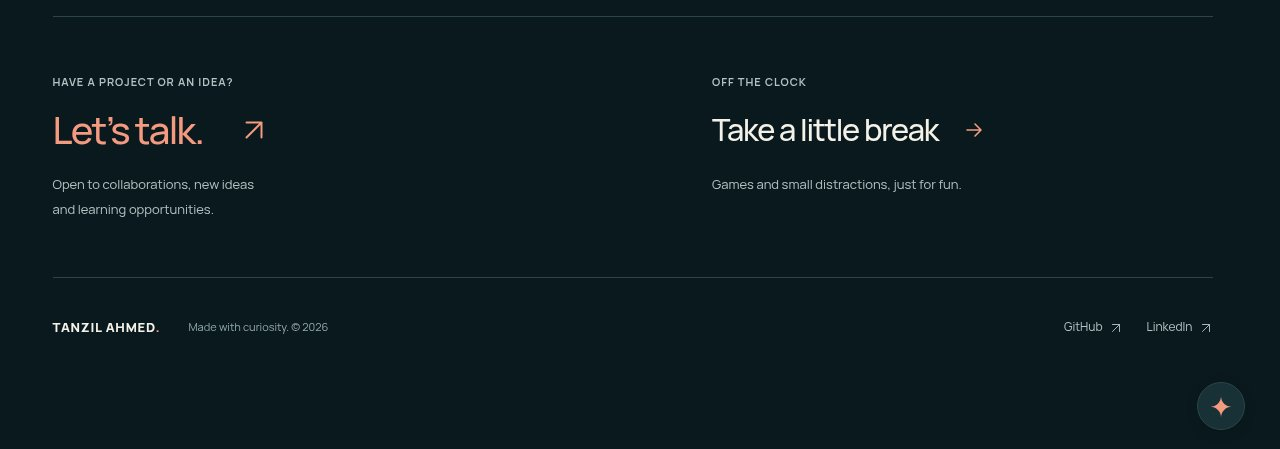
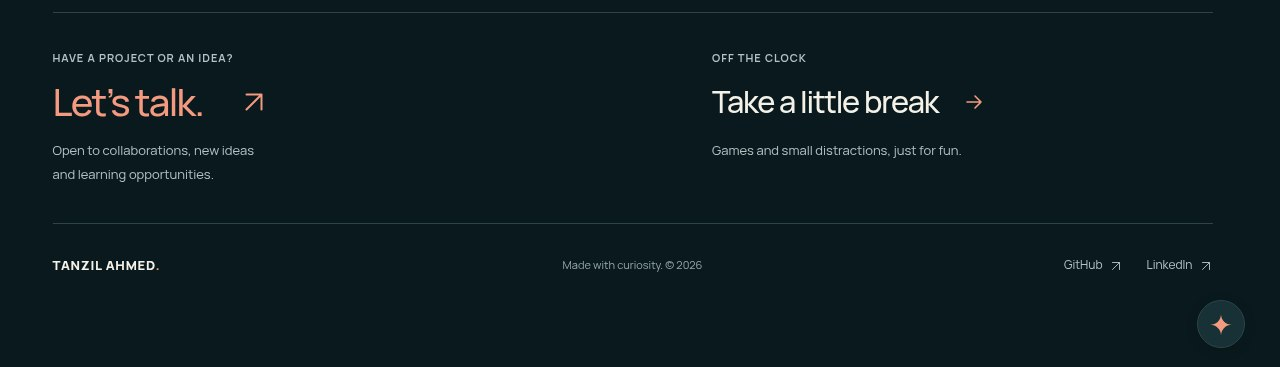
Highlight YCPC and Completionist recognition and compact the desktop footer

diff --git a/src/styles/global.css b/src/styles/global.css
@@ -186,14 +186,21 @@ h2 { font-size: clamp(30px, 3vw, 40px); font-weight: 600; line-height: 1.2; lett
 .merge-status { display: inline-flex; justify-content: center; align-items: center; gap: 5px; font-size: 11px; line-height: 1.4; color: var(--positive); background: var(--positive-bg); padding: 5px 9px; border-radius: 5px; }
 .merge-status.status-open { color: var(--accent); background: var(--surface-raised); }
 .merge-status.status-closed { color: var(--muted); background: var(--surface-raised); }
-.recognition-grid { display: grid; grid-template-columns: repeat(3, minmax(0, 1fr)); gap: 20px; }
+.recognition-grid { display: grid; grid-template-columns: repeat(2, minmax(0, 1fr)); gap: 20px; }
 .recognition-grid article { border: 1px solid var(--line); border-radius: var(--radius); padding: 26px; }
 .recognition-year { color: var(--quiet); }
 .recognition-grid .recognition-year { display: block; font-size: 14px; margin-bottom: 28px; }
 .recognition-grid .eyebrow { font-size: 10px; }
 .recognition-grid h3 { font-size: 21px; line-height: 1.4; letter-spacing: -.035em; margin: 9px 0 14px; font-weight: 600; }
 .recognition-grid p:not(.eyebrow) { font-size: 14px; color: var(--muted); line-height: 1.8; }
-.recognition-grid .text-link { margin-top: 16px; }
+.recognition-content { display: flex; align-items: flex-start; gap: 24px; min-width: 0; }
+.recognition-copy { flex: 1; min-width: 0; }
+.recognition-links { display: flex; flex-wrap: wrap; align-items: center; gap: 4px 20px; margin-top: 14px; }
+.recognition-grid .recognition-links .text-link, .recognition-list .recognition-links .text-link { margin-top: 0; }
+.recognition-badge { flex: 0 0 128px; margin: 0; }
+.recognition-badge img { display: block; width: 128px; height: auto; border-radius: 9px; }
+.recognition-list .recognition-content { justify-content: space-between; }
+.recognition-list .recognition-copy { max-width: 800px; }
 .beyond-teaser { display: grid; grid-template-columns: 1fr 1.2fr; gap: 64px; border-top: 1px solid var(--line); }
 .beyond-title > .eyebrow { margin-bottom: 14px; }
 .beyond-title h2 { margin-bottom: 20px; }
@@ -290,12 +297,7 @@ h2 { font-size: clamp(30px, 3vw, 40px); font-weight: 600; line-height: 1.2; lett
 .contribution-state .pr-link:hover { text-decoration: underline; }
 .contribution-state time { font-size: 11px; color: var(--quiet); }
 .milestone-section { padding-bottom: 0; }
-.milestone-grid { display: grid; grid-template-columns: repeat(2, minmax(0, 1fr)); gap: 24px; }
-.milestone-card { border: 1px solid var(--line); padding: 28px; border-radius: var(--radius); }
-.milestone-year { font-size: 32px; letter-spacing: -.05em; color: var(--quiet); display: block; margin-bottom: 24px; line-height: 1.2; }
-.milestone-card h3 { font-size: 22px; line-height: 1.4; letter-spacing: -.035em; margin: 10px 0 14px; font-weight: 600; }
-.milestone-card > p:not(.eyebrow) { font-size: 14px; color: var(--muted); line-height: 1.8; }
-.milestone-card .text-link { margin-top: 18px; }
+
 /* About and activities */
 .about-intro { display: grid; grid-template-columns: .85fr 1.15fr; gap: 72px; align-items: start; padding: 0 0 48px; }
 .about-photo img { width: 100%; aspect-ratio: 1; object-fit: cover; object-position: 65% center; border-radius: var(--radius); }
@@ -442,6 +444,16 @@ h2 { font-size: clamp(30px, 3vw, 40px); font-weight: 600; line-height: 1.2; lett
 .social-links a { display: inline-flex; gap: 6px; align-items: center; min-height: 44px; font-size: 12px; color: var(--muted); }
 .social-links a:hover { color: var(--text); }
 .footer-signoff { color: var(--quiet); font-size: 11px; }
+@media (min-width: 800px) {
+  .footer-main { padding-block: 36px; }
+  .footer-contact-block > .eyebrow, .footer-break > .eyebrow { margin-bottom: 12px; }
+  .footer-contact-block > p:last-child, .footer-break > p:last-child { margin-top: 12px; }
+  .footer-bottom { display: grid; grid-template-columns: minmax(0, 1fr) auto minmax(0, 1fr); gap: 24px; padding-block: 20px 80px; }
+  .footer-identity { display: contents; }
+  .footer-wordmark { grid-column: 1; justify-self: start; }
+  .footer-signoff { grid-column: 2; justify-self: center; text-align: center; }
+  .footer-bottom > .social-links { grid-column: 3; justify-self: end; }
+}
 /* Decorations use the viewport without becoming an input surface or moving content. */
 .pocket-surprise { position: fixed; z-index: 30; right: max(20px, env(safe-area-inset-right)); bottom: max(20px, env(safe-area-inset-bottom)); }
 .pocket-button { display: grid; place-items: center; width: 48px; height: 48px; padding: 0; border: 1px solid var(--line); border-radius: 50%; background: var(--surface-raised); color: var(--accent); box-shadow: 0 3px 14px #00000018; font-size: 28px; line-height: 1; }
@@ -621,6 +633,9 @@ h2 { font-size: clamp(30px, 3vw, 40px); font-weight: 600; line-height: 1.2; lett
   .preview-end .merge-status { font-size: 10px; padding: 4px 6px; }
   .recognition-grid article { grid-template-columns: 1fr; gap: 18px; }
   .recognition-grid .recognition-year { margin: 0; }
+  .recognition-content { flex-direction: column; gap: 20px; }
+  .recognition-badge { flex-basis: auto; order: -1; }
+  .recognition-badge img { width: 144px; }
   .recognition-list article { grid-template-columns: 45px minmax(0, 1fr); gap: 18px; }
   .recognition-list h3 { font-size: 19px; }
   .recognition-list p:not(.eyebrow) { font-size: 14px; }
@@ -650,8 +665,6 @@ h2 { font-size: clamp(30px, 3vw, 40px); font-weight: 600; line-height: 1.2; lett
   .contribution-state .pr-link + time { margin-left: 0; }
   .entry-meta { font-size: 10px; gap: 4px 10px; }
   .entry-meta > span + span { padding-left: 10px; }
-  .milestone-grid { grid-template-columns: 1fr; gap: 16px; }
-  .milestone-card { padding: 24px; }
   .writing-featured { padding: 24px; }
   .writing-featured::before { left: 24px; }
   .writing-card-copy :is(h2, h3) { font-size: 24px; }

diff --git a/tests/browser/recognition.spec.ts b/tests/browser/recognition.spec.ts
@@ -1,0 +1,57 @@
+import { test, expect } from '@playwright/test';
+
+test('recognition shares the real badge, contest proof and leadership session across pages', async ({ page, request }) => {
+  let badgeSource: string | null = null;
+  for (const route of ['/', '/about/', '/open-source/']) {
+    await page.goto(route);
+    const badge = page.locator('[data-recognition="hacktoberfest-2026"]');
+    await expect(badge.getByRole('heading')).toHaveText('Hacktoberfest 2026 — Completionist');
+    await expect(badge).toContainText('all three Hacktoberfest 2026 milestones');
+    const image = badge.getByRole('img');
+    await expect(image).toHaveAttribute('alt', /Completionist badge, earned by Tanzil Ahmed/);
+    const source = await image.getAttribute('src');
+    if (badgeSource) expect(source).toBe(badgeSource); else badgeSource = source;
+    await expect(badge.getByRole('link', { name: 'DEV profile' })).toHaveAttribute('href', 'https://dev.to/tanzil_ahmed_e6a826eee8c4');
+    const proof = (await badge.getByRole('link', { name: 'View badge' }).getAttribute('href'))!;
+    const response = await request.get(proof);
+    expect(response.status()).toBe(200); expect(response.headers()['content-type']).toContain('image/webp');
+    if (route !== '/open-source/') {
+      const ycpc = page.locator('[data-recognition="ycpc-2025"]');
+      await expect(ycpc.getByRole('heading')).toHaveText('YCPC Grand Finale 2k25 — 3rd place');
+      await expect(ycpc).toContainText('2025');
+      await expect(ycpc).toContainText('HackerRank');
+      const leaderboard = (await ycpc.getByRole('link', { name: 'View leaderboard' }).getAttribute('href'))!;
+      expect((await request.get(leaderboard)).status()).toBe(200);
+    }
+    if (route === '/') {
+      await expect(page.locator('.recognition-grid > article')).toHaveCount(4);
+      await expect(page.locator('.beyond-stories')).toContainText('Former President of Faizur Rahman Ideal Institute Debating Club (2022–23 session)');
+    }
+  }
+  await page.goto('/beyond/');
+  await expect(page.locator('#debate .activity-prose')).toContainText('served as its President for the 2022–23 session');
+});
+
+test('desktop footer centers copyright independently while mobile keeps the identity stack', async ({ page }) => {
+  for (const theme of ['dark', 'light']) for (const width of [320, 390, 800, 1024, 1440]) {
+    await page.setViewportSize({ width, height: 900 });
+    await page.goto('/contact/');
+    await page.evaluate((theme) => { document.documentElement.dataset.theme = theme; }, theme);
+    const footer = page.locator('.site-footer'); await footer.scrollIntoViewIfNeeded();
+    const bounds = (await page.locator('.footer-bottom').boundingBox())!;
+    const logo = (await page.locator('.footer-wordmark').boundingBox())!;
+    const signoff = (await page.locator('.footer-signoff').boundingBox())!;
+    const social = (await page.locator('.footer-bottom > .social-links').boundingBox())!;
+    if (width >= 800) {
+      expect(Math.abs(signoff.x + signoff.width / 2 - (bounds.x + bounds.width / 2))).toBeLessThan(1);
+      expect(logo.x + logo.width).toBeLessThan(signoff.x);
+      expect(signoff.x + signoff.width).toBeLessThan(social.x);
+    } else {
+      expect(Math.abs(logo.x - signoff.x)).toBeLessThan(1);
+      expect(signoff.y).toBeGreaterThan(logo.y + logo.height);
+    }
+    expect(await page.evaluate(() => document.documentElement.scrollWidth <= innerWidth)).toBe(true);
+  }
+  await page.setViewportSize({ width: 1440, height: 900 }); await page.goto('/');
+  expect((await page.locator('.site-footer').boundingBox())!.height).toBeLessThan(400);
+});

diff --git a/src/content.config.ts b/src/content.config.ts
@@ -69,6 +69,13 @@ const experience = defineCollection({
 });
 const milestones = defineCollection({
   loader: glob({ pattern: '**/*.md', base: './src/content/milestones' }),
-  schema: z.object({ ...common, title: z.string(), year: z.string().optional(), summary: z.string(), kind: z.string(), url: z.url().optional(), featured: z.boolean().default(false) }),
+  schema: ({ image }) => z.object({
+    ...common, title: z.string(), year: z.string().optional(), summary: z.string(), kind: z.string(),
+    url: z.url().optional(), urlLabel: z.string().trim().min(1).default('View details'),
+    featured: z.boolean().default(false),
+    image: image().optional(), imageAlt: z.string().trim().min(1).optional(),
+    imageLabel: z.string().trim().min(1).default('View image'),
+    imagePresentation: z.enum(['evidence', 'badge']).default('evidence'),
+  }).refine((data) => !data.image || !!data.imageAlt, { message: 'Recognition images need an informative imageAlt.', path: ['imageAlt'] }),
 });
 export const collections = { projects, contributions, notes, activities, experience, milestones };

diff --git a/docs/VERIFICATION.md b/docs/VERIFICATION.md
@@ -1,20 +1,23 @@
 # Local verification — Offscript
 
-Verified October 24, 2026 (UTC), on the production preview. This record covers the Tic-tac-toe/Stack Tower, screen-wide surprise and open-footer revision. Publication status is separate from local checks.
+Verified October 24, 2026 (UTC), on the production preview. This record covers YCPC/Completionist recognition evidence, the former club presidency session and the compact desktop footer revision. Publication status is separate from local checks.
 
 - Existing locked dependencies were reused; no package or lockfile changes. The earlier frozen reinstall passed; it was not repeated for this revision.
-- `npm run check`: 56 files; zero errors, warnings or hints.
+- `npm run check`: 57 files; zero errors, warnings or hints.
 - `npm run build`: 21 static HTML pages plus RSS, sitemap and local assets.
 - `npm test`: all 11 checks passed. Includes generated links/fragments/assets, metadata/sitemap/private-data/destination checks, editable Play schema, all Tic-tac-toe win/draw rules, exhaustive human continuations against Hard as X and O, nonmutating AI decisions, tower left/right overlap and tiny-slice loss, perfect snaps/recovery, 30/60/120Hz motion equivalence, paused/Step immobility and 1,000-level history/width bounds.
-- `npm run test:authoring`: project/image/contribution fixtures, original/external writing and dates, metadata/feed/sitemap, shared activity/photo updates and captions, Home previews and draft exclusion passed. Fixtures were removed and the original site rebuilt before browser checks.
-- `npm run test:browser`: all 77 tests passed in the final full run. Both-theme WCAG A/AA automated checks cover representative pages, the Play landing and all five active game surfaces. All 21 routes fit 320/360/390/768/800/1024/1440px without horizontal overflow; existing project-cover title checks remain. Existing navigation, theme/storage fallback, no-JavaScript reading/navigation, project/contribution/writing journeys, gallery/keyboard/modal/focus, equal photo frames, lightweight scrolling and reading-progress checks passed.
+- `npm run test:authoring`: project/image/contribution fixtures, original/external writing and dates, metadata/feed/sitemap, shared activity/photo updates and captions, recognition summaries/badge images/link labels updated from one file across Home/About/Open source, Home previews and draft exclusion passed. Fixtures were removed and the original site rebuilt before browser checks.
+- `npm run test:browser`: all 79 tests passed in the final full run. Both-theme WCAG A/AA automated checks cover representative pages, the Play landing and all five active game surfaces. All 21 routes fit 320/360/390/768/800/1024/1440px without horizontal overflow; existing project-cover title checks remain. Existing navigation, theme/storage fallback, no-JavaScript reading/navigation, project/contribution/writing journeys, gallery/keyboard/modal/focus, equal photo frames, lightweight scrolling and reading-progress checks passed.
+- Recognition/footer checks: YCPC Grand Finale 2k25 third place and the owner-supplied leaderboard proof appear on Home/About. The real 2026 Completionist badge, all-three-milestone description, full-image proof and clean DEV profile URL share one source across Home/About/Open source. Native proof URLs return optimized WebP images. Home contains four highlights. Former President of Faizur Rahman Ideal Institute Debating Club and the 2022–23 session appear through the shared Home/Activities content. Desktop copyright is centered independently of the logo/social widths at 800/1024/1440px in both themes; 320/390px checks retain the mobile identity stack and prevent overflow. Desktop Home footer height is below 400px.
+- Source evidence: used the two supplied screenshots and the owner's stated recognition/role. DEV's supplied profile URL is stored without email/analytics parameters; its external availability is not part of local checks. Raw supplied files remain byte-identical in src/assets/recognition; the built site references generated WebP proofs and 128/192/256px badge sizes. No badge artwork or ranking data was synthesized.
 - Tic-tac-toe browser checks: keyboard/touch/local wins and draws, one-time result counting, fixed board dimensions, winning line/replay, stored/reset scores, Easy/Hard separation, personal scores across X/O changes, computer turn gating, canceled pending turns/settings/new-round races and reduced-motion marks. Device storage is tested blocked and malformed. Hard's no-loss result is covered separately by exhaustive rule tests.
 - Stack Tower browser checks: actual moving canvas, pause/offscreen/explicit resume, live reduced-motion change, default Step mode, keyboard perfect landings, trimming, loss/replay, mode-specific best persistence, blocked/corrupt storage and actual mobile tap/swipe input. Scrolling never drops a block; untimed Step controls remain usable after scrolling. Timed play pauses out of view. Ready/paused/Step states have no game animation loop; falling pieces and history are bounded by implementation and rule tests.
 - Corner checks: viewport-sized decorative stage, at most 28 particles (20 on mobile), multi-second native animation timing, stable URL/content/control position and focus, no visible popup/tooltip, pointer transparency and a real footer-link click during an effect, rapid replacement, Escape/automatic cleanup, static reduced-motion reactions, failed lazy chunk and menu/gallery/game-focus suppression. No sound or idle render loop is added.
 - Existing Playground, Drawing and Do not press checks still cover lazy loading, shape limits/Shuffle/reset/manual movement/offscreen pause, touch drag/draw, mirror/eraser/Undo/Redo/clear/recovery/resize, tab-session artwork recovery and failures, actual opaque PNG bytes/paper pixels, keyboard pen/prompts/stamps, rapid reactions/reset and opt-in sound. No game engine is requested on Home or the unselected Play landing.
 - The intro's timing-sensitive test now checks that both headline lines become fully visible when the bounded fallback deadline finishes an animation; it no longer depends on incidental per-line animation markers. Public intro behavior and source are unchanged. Existing layout, reduced-motion and failed-script checks remain.
-- Inspected final desktop/mobile previews in both themes: Play choices, Tic-tac-toe winning state, five-block Step tower, footer and viewport-wide surprises. Refreshed README Home/Play/drawing/footer captures and added game previews. All 30 relative documentation links resolve. Owner profile, portrait, article/project/activity content, photo captions and public media were compared with HEAD and remain unchanged. `git diff --check` passed.
-- No dependencies or public media changed. Lighthouse and earlier CPU/FPS probes were not rerun; historical results below are not measurements of these games.
+- Inspected final desktop/mobile recognition, About awards/badge, Open source milestones, leadership and footer previews in both themes. Refreshed footer captures and added README recognition previews. All 31 relative documentation links resolve. The portrait, original essay, project/contribution records, activity photo arrays/captions and public media remain unchanged; only the authorized recognition and debate-role content was revised. `git diff --check` passed.
+- No packages, gameplay or public media changed. The two new source evidence assets are optimized during the build. Lighthouse and earlier CPU/FPS probes were not rerun; historical results below are not measurements of this revision.
+
 
 - Earlier production dependency audit (`npm audit --omit=dev --audit-level=moderate`): zero reported vulnerabilities. Dependencies were not changed or re-audited for the UI revision.
 - Earlier manual browser checks (retained from preceding revisions): Activities navigation/active state, email copy and canonical article-link copy, reduced-motion fallback, all six detail-cover titles and desktop/mobile screenshots in both themes. A clipped Tuktak title at 320px was corrected. README includes fresh dark/light Home previews and an activity-gallery preview. The seven owner-supplied activity photos are local WebP files, at most 1600px wide, totalling 1,010,372 bytes versus 28,891,991 bytes before optimization (96.5% smaller). The Home stage image is 103,932 bytes rather than 13,486,012. The unused 12,938,521-byte n2.jpg was removed. Captions were compared against the owner’s source and remain unchanged; alt descriptions were improved. Earlier demo assets are not referenced by the live gallery. Lazy images were decoded and allowed to paint before screenshot review. Relative documentation links resolve. RSS and sitemap were parsed as XML for the preceding content revision.
@@ -36,7 +39,7 @@ Accessible-name mismatches were corrected and the final Lighthouse report listed
 
 ## Publication
 
-The Tic-tac-toe/Stack Tower, screen-wide surprise and open-footer revision uses the checked master workflow; consult Actions for its deployment status. The preceding dedicated-game/footer/corner revision deployed successfully in run [40038361854](https://github.com/tanzilamd/tanzilamd.github.io/actions/runs/40038361854) for commit `7f15397`. The preceding Play revision deployed successfully in run [40034150096](https://github.com/tanzilamd/tanzilamd.github.io/actions/runs/40034150096) for commit `9fd6242`. The preceding equal-gallery/lightweight-scroll revision deployed successfully in run [40028927236](https://github.com/tanzilamd/tanzilamd.github.io/actions/runs/40028927236) for commit `f31d518`. The preceding motion/photo-story revision deployed successfully in run [40026600339](https://github.com/tanzilamd/tanzilamd.github.io/actions/runs/40026600339) for commit `8c70ec2`.
+The recognition/leadership/compact-footer revision uses the checked master workflow; consult Actions for its deployment status. The preceding Tic-tac-toe/Stack Tower revision deployed successfully in run [40070060201](https://github.com/tanzilamd/tanzilamd.github.io/actions/runs/40070060201) for commit `18ac32c`. The preceding dedicated-game/footer/corner revision deployed successfully in run [40038361854](https://github.com/tanzilamd/tanzilamd.github.io/actions/runs/40038361854) for commit `7f15397`. The preceding Play revision deployed successfully in run [40034150096](https://github.com/tanzilamd/tanzilamd.github.io/actions/runs/40034150096) for commit `9fd6242`. The preceding equal-gallery/lightweight-scroll revision deployed successfully in run [40028927236](https://github.com/tanzilamd/tanzilamd.github.io/actions/runs/40028927236) for commit `f31d518`. The preceding motion/photo-story revision deployed successfully in run [40026600339](https://github.com/tanzilamd/tanzilamd.github.io/actions/runs/40026600339) for commit `8c70ec2`.
 
 The owner’s activity-content update deployed successfully in run [40018102876](https://github.com/tanzilamd/tanzilamd.github.io/actions/runs/40018102876) for commit `6e82447`. The October 24 image optimization deployed successfully in run [40021022175](https://github.com/tanzilamd/tanzilamd.github.io/actions/runs/40021022175) for commit `85b4109`.
 

diff --git a/docs/CONTENT-GUIDE.md b/docs/CONTENT-GUIDE.md
@@ -85,9 +85,30 @@ Matching template copy করে matching folder-এ নতুন `.md` file ব
 - **Project:** `templates/project.md.example`। Category: `Product`, `Tool`, `Experiment`, `Earlier work`। `featured: true` ও ছোট `order` দিয়ে Home-এর প্রথম চারটি project বেছে নিন। নতুন project-এ `cover: "custom"` দিন, অথবা `/media/`-এর ছবি `coverImage` এবং বর্ণনা `coverAlt` দিন। নতুন file-এর নামই `/work/file-name/` URL হবে।
 - **Contribution:** সাধারণ PR-এর জন্য `templates/contribution.md.example`; published website-এর জন্য `templates/website-contribution.md.example`। একটি PR একবারই যোগ করুন। `Merged`, `Open`, `Closed`, `Published` সঠিকভাবে দিন। Personal fork merge-কে upstream contribution বলবেন না। `featured` দিয়ে Home-এর তিনটি highlight; `spotlight: true` দিয়ে Open source-এর বিস্তারিত highlight বাছাই হয়।
 - **Activity:** `templates/activity.md.example`। `summary` Home ও Activities-এ একই source থেকে আসে। নিচে বিস্তারিত লিখুন। Icon-এর `art`: `debate`, `theatre`, `community`। `featured: false` করলে শুধু Activities-এ থাকবে।
-- **Experience / recognition:** `templates/experience.md.example` বা `templates/milestone.md.example`। Award-এর সঠিক নাম, year এবং সহজ summary দিন। Nomination-কে win লিখবেন না। Unknown year বাদ রাখুন। Milestone-এর `featured: true` Home-এর প্রথম তিনটি recognition-এ বাছাই করে।
+- **Experience / recognition:** `templates/experience.md.example` বা `templates/milestone.md.example`। Award-এর সঠিক নাম, year এবং সহজ summary দিন। Nomination-কে win লিখবেন না। Unknown year বাদ রাখুন। Milestone-এর `featured: true` Home-এর প্রথম চারটি recognition-এ বাছাই করে।
 
 সব collection-এ `draft: true` দিলে public page, list, feed ও sitemap থেকে item বাদ যায়। তবে source repository public হলে committed draft-এর source অন্য কেউ দেখতে পারে। ব্যক্তিগত draft নিজের কাছে রাখুন। `order` ছোট হলে আগে আসে; Writing-এর ক্ষেত্রে date আগে বিবেচিত হয়।
+
+## Recognition badge ও proof image
+
+একটি recognition-এর title, year, summary, link ও ছবি একই `src/content/milestones/*.md` file-এ থাকবে। Home ও About একই source ব্যবহার করে; filename `hacktoberfest` দিয়ে শুরু হলে Open source-এও আসে। এখন Home-এ সর্বোচ্চ চারটি featured item দেখা যায়।
+
+ছবি আগে `src/assets/recognition/`-এ upload করুন। Milestone file-এ এই optional fields দিন:
+
+```json
+"image": "../../assets/recognition/hacktoberfest-completionist-2026.png",
+"imageAlt": "Hacktoberfest 2026 Completionist badge, earned by Tanzil Ahmed.",
+"imageLabel": "View badge",
+"imagePresentation": "badge",
+"url": "https://dev.to/tanzil_ahmed_e6a826eee8c4",
+"urlLabel": "DEV profile"
+```
+
+এগুলো বিদ্যমান JSON object-এর অন্য field-এর সঙ্গে comma দিয়ে যোগ করবেন। `imagePresentation: "badge"` হলে ছোট artwork ও full-image link দেখা যায়। `"evidence"` দিলে শুধু proof image-এর link থাকে—YCPC leaderboard-এর মতো screenshot-এর জন্য ভালো। Default `evidence`। ছবি থাকলে অর্থপূর্ণ `imageAlt` লাগবেই; `imageLabel` দিয়ে “View badge” বা “View leaderboard” লিখতে পারেন। Website link-এর লেখা `urlLabel` দিয়ে বদলানো যায়। Source path হলো milestone file থেকে relative; `/media/` path-এর সঙ্গে গুলিয়ে ফেলবেন না।
+
+Build নিজে responsive WebP badge images ও full proof তৈরি করে। ছবি পাল্টালে শুধু নতুন file upload করে ওই milestone-এর path/alt বদলালেই হবে; Home/About/Open source আলাদা edit লাগে না। Email বা analytics-এর tracking parameters ছাড়া clean public URL দিন। Nomination, badge ও contest position-এর ভাষা আলাদা রাখুন।
+
+Debate club-এর former President role ও 2022–23 session আছে `src/content/activities/debate.md`-এ। এর summary বদলালে Home এবং Activities দুটোই update হয়; নিচের Markdown-এ বিস্তারিত থাকে।
 
 ## Activity photos / আসল ছবি বসানো
 

diff --git a/docs/UI-GUIDE.md b/docs/UI-GUIDE.md
@@ -22,7 +22,7 @@ The content container has a 1160px maximum width. Section spacing uses `--space-
 | `Layout.astro` | Main/mobile/no-JS navigation, theme setup, shared metadata, footer and bounded Home intro bootstrap. Activities is part of all navigation variants. Contact omits the repeated footer contact invitation. |
 | `ProjectCard.astro` | Reusable cover, category, title and summary. Heading level 3 on Home; level 2 in the Work list. |
 | `Cover.astro` | Project identity artwork or an owner-supplied image. No fake product screenshot claims. |
-| `RecognitionList.astro` | Same award content as a Home grid or About list. |
+| `RecognitionList.astro` | Shared Home grid/About list/Open source milestones, optional authentic badge art, proof-image links and custom source labels. |
 | `WritingCard.astro` | Shared native/external publication, dates, reading time and destination labels. |
 | `Filters.astro` | Accessible button group; `site.ts` handles URL state, count announcements and empty states. Hidden without JS so all content remains visible. |
 | `ActivityPhoto.astro`, `ActivityGallery.astro` | Shared activity photos, captions, demo labels and a selected Home preview, driven by each activity's `gallery` data. |
@@ -35,9 +35,15 @@ The content container has a 1160px maximum width. Section spacing uses `--space-
 | `PocketSurprise.astro`, `pocket.ts`, `fun/pocket-effects.ts` | Fixed corner control and on-demand, bounded same-page surprises. |
 | `lib/play.ts`, `data/play.json` | Build validation and the single editable source for Play copy, palette, prompts and reactions. |
 
+## Recognition images and hierarchy
+
+Home selects up to four featured milestones in a two-column desktop grid, retaining the Peace Prize nomination and Tech Diary writing result alongside YCPC 2025 third place and Hacktoberfest 2026 Completionist. Mobile uses one column. About lists all competition/recognition entries and separate open-source milestones. Open source reuses the same component rather than duplicating badge content.
+
+Milestone content optionally provides an Astro-managed local `image`, required `imageAlt`, `imageLabel`, `imagePresentation` (`badge` or default `evidence`) and external `urlLabel`. Badge presentation adds a small contain-fit image; evidence presentation keeps the full screenshot behind a native proof link. Generate responsive 128/192/256px WebP badge variants and a full-size optimized WebP proof without modifying the supplied evidence. Assets under `src/assets/recognition/` keep raw attachments out of the published asset directory; only generated derivatives are needed by the site. No modal/JavaScript is required for proof links. Keep exact recognition wording and accessible image descriptions, and strip email/analytics parameters from public profile links.
+
 ## Play page
 
-The footer uses an open two-column composition: a clear contact invitation and an unboxed **Take a little break** link, followed by a fine separator and compact identity/social row. Mobile stacks the invitations and keeps the metadata orderly; bottom spacing clears the fixed corner control. Contact omits the repeated contact invitation.
+The footer uses an open two-column composition: a clear contact invitation and an unboxed **Take a little break** link, followed by a fine separator and compact identity/social row. At 800px and wider, shorter vertical padding and a three-column bottom grid put the wordmark left, copyright at the true center and social profiles right. On smaller screens, the existing identity/copyright stack, invitation spacing and social wrapping are preserved; bottom spacing still clears the fixed corner control. Contact omits the repeated contact invitation.
 
 `/play/` contains five illustrated choices. Tic-tac-toe and Stack Tower get a larger first row on desktop; the original three activities share the next row. Mobile uses consistent single-column choices. Each dedicated game page renders its own controls, a back link and links to the other four activities. Keep Play out of primary navigation and the Home hero. Only Play routes load game CSS/bootstrap and only the chosen engine is imported. Legacy hashes, including same-document changes, redirect to the corresponding game. No-JavaScript descriptions/navigation/fallbacks remain readable and controls stay disabled until initialized. Unsupported engines offer retry and native links to other activities.
 

diff --git a/docs/RELEASE-NOTES.md b/docs/RELEASE-NOTES.md
@@ -4,6 +4,14 @@
 
 Responsive dark/light portfolio; new owner-supplied portrait; four selected projects and two earlier-work stories; eleven selected open-source records; About, Activities, Writing, Contact and 404; content templates; sitemap/metadata; self-hosted fonts; optimized images; GitHub Pages workflow; build, authoring, privacy/link and browser/accessibility checks.
 
+## October 24 recognition evidence, leadership session and footer spacing
+
+- Added YCPC Grand Finale 2k25 — 3rd place, with the owner-supplied HackerRank leaderboard proof.
+- Highlighted the owner-supplied Hacktoberfest 2026 Completionist badge and all-three-milestone result on Home, About and Open source. Added the clean DEV profile URL, responsive local artwork and full proof links through one reusable recognition component/content source.
+- Expanded Home recognition to four highlights in two columns and added optional milestone image/alt/presentation/link-label fields, template guidance and authoring coverage.
+- Clarified former President of Faizur Rahman Ideal Institute Debating Club, 2022–23 session, in the shared activity summary and detail.
+- Reduced desktop footer spacing and centered copyright independently of the wordmark/social groups. Preserved the mobile footer arrangement. Updated docs/previews; no packages or gameplay changes.
+
 ## October 24 Tic-tac-toe, Stack Tower and open footer
 
 - Added `/play/tic-tac-toe/`: Easy/Hard computer play, same-screen two-player mode, X/O choice, keyboard board navigation, stable winning line, replay and per-mode local scores. Computer scores follow the human when switching sides. Hard uses tested minimax; stale turns cannot leak into a new round or mode.

diff --git a/docs/CREDITS.md b/docs/CREDITS.md
@@ -2,6 +2,7 @@
 
 - “Grandma’s Xbox”: written and supplied by Tanzil Ahmed, originally for university applications in 2024; published here at his request.
 - Portrait: owner-supplied photograph, used at the owner’s request.
+- Recognition evidence: the YCPC Grand Finale 2k25 HackerRank leaderboard screenshot and Hacktoberfest 2026 Completionist badge were supplied by Tanzil Ahmed. Their original platform/organizer marks and artwork remain intact; generated WebP sizes are for delivery.
 - Activity photographs: supplied by Tanzil Ahmed for the debate, theatre and community galleries. Optimized for web delivery without changing their framing; existing photographer watermarks/credits remain intact.
 - Earlier demo assets (`public/media/activities/demo-*.webp`): generated with OpenAI image generation for the initial gallery preview. These fictional scenes are no longer referenced by the live galleries. If reused as placeholders, keep `demo: true`.
 - Manrope and Hind Siliguri: self-hosted through Fontsource, under their included SIL Open Font Licenses in public/licenses/.

diff --git a/src/content/activities/debate.md b/src/content/activities/debate.md
@@ -2,7 +2,7 @@
 {
     "title": "Debate & leadership",
     "label": "Club leadership & competitions",
-    "summary": "Founded and led my school’s debating club and organized two inter-school tournaments.",
+    "summary": "Former President of Faizur Rahman Ideal Institute Debating Club (2022–23 session). Founded the club and organized two inter-school tournaments.",
     "art": "debate",
     "order": 1,
     "homePreview": false,
@@ -24,6 +24,6 @@
 }
 ---
 
-I founded and served as president of the debating club at Faizur Rahman Ideal Institute. With support from the school administration, I also organized outreach events.
+I founded Faizur Rahman Ideal Institute Debating Club and served as its President for the 2022–23 session. With support from the school administration, I also organized outreach events.
 
 Organizing tournaments introduced me to Tabbycat and the practical needs of debate software. My competition results are listed in [Awards & recognition](/about/#recognition).

diff --git a/src/content/milestones/hacktoberfest-2026.md b/src/content/milestones/hacktoberfest-2026.md
@@ -1,9 +1,15 @@
 ---
 {
-  "title": "Hacktoberfest Completionist",
+  "title": "Hacktoberfest 2026 — Completionist",
   "year": "2026",
-  "summary": "Earned Completionist recognition by completing all three Hacktoberfest milestones.",
-  "kind": "Open source · Completion",
+  "summary": "Earned the Completionist badge after completing all three Hacktoberfest 2026 milestones.",
+  "kind": "Open source · Badge earned",
+  "url": "https://dev.to/tanzil_ahmed_e6a826eee8c4",
+  "urlLabel": "DEV profile",
+  "image": "../../assets/recognition/hacktoberfest-completionist-2026.png",
+  "imageAlt": "Hacktoberfest 2026 Completionist badge, earned by Tanzil Ahmed.",
+  "imageLabel": "View badge",
+  "imagePresentation": "badge",
   "featured": true,
   "order": 6
 }

diff --git a/src/content/milestones/ycpc-2025.md b/src/content/milestones/ycpc-2025.md
@@ -1,0 +1,13 @@
+---
+{
+  "title": "YCPC Grand Finale 2k25 — 3rd place",
+  "year": "2025",
+  "summary": "Placed 3rd in YCPC Grand Finale 2k25 by PHITRON, a programming contest on HackerRank.",
+  "kind": "Programming contest",
+  "image": "../../assets/recognition/ycpc-grand-finale-2025.jpg",
+  "imageAlt": "HackerRank leaderboard for YCPC Grand Finale 2k25 by PHITRON showing tanzilamd ranked 3rd with six problems solved.",
+  "imageLabel": "View leaderboard",
+  "featured": true,
+  "order": 3
+}
+---
